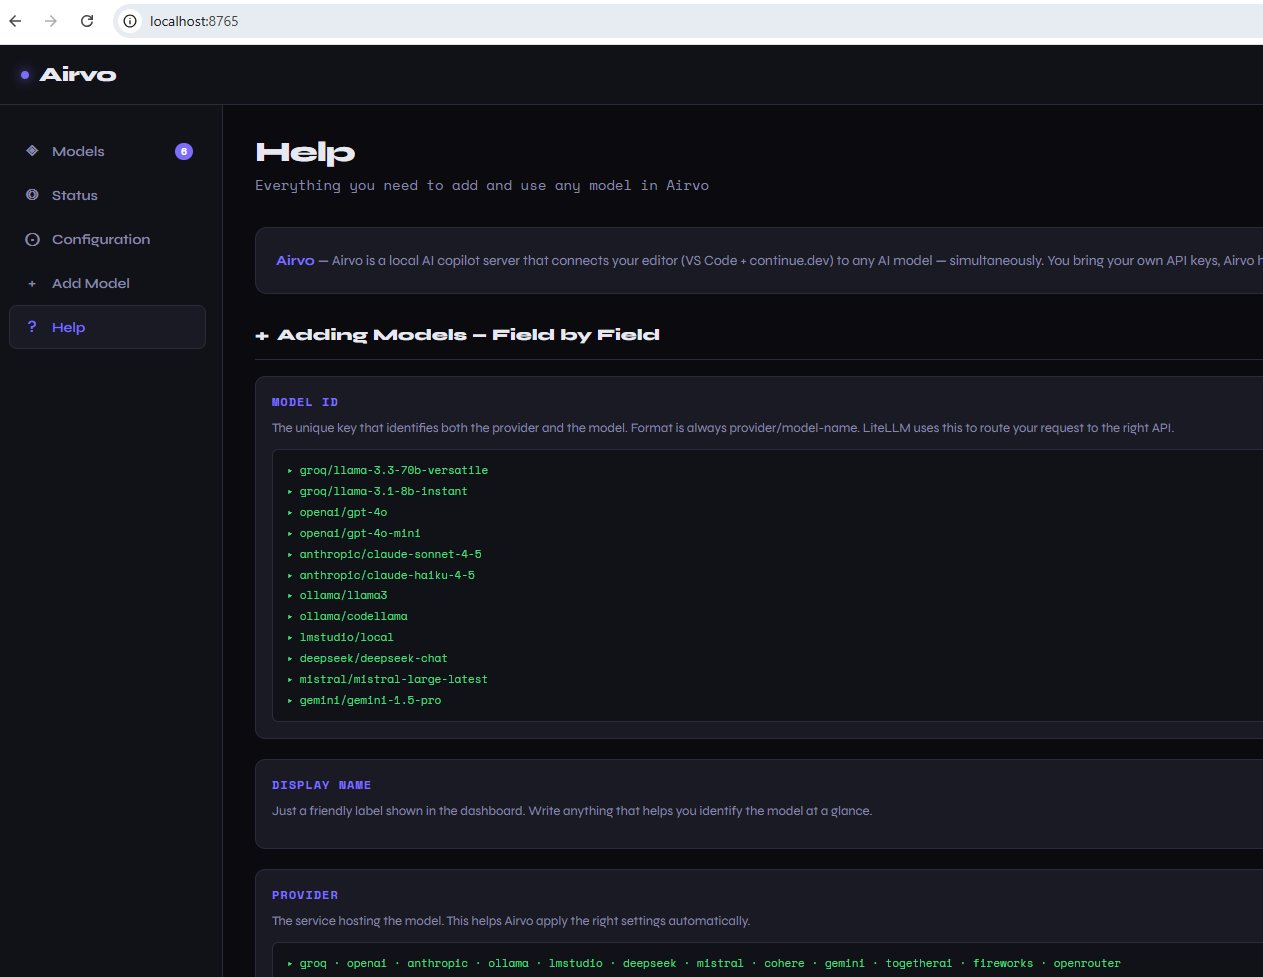
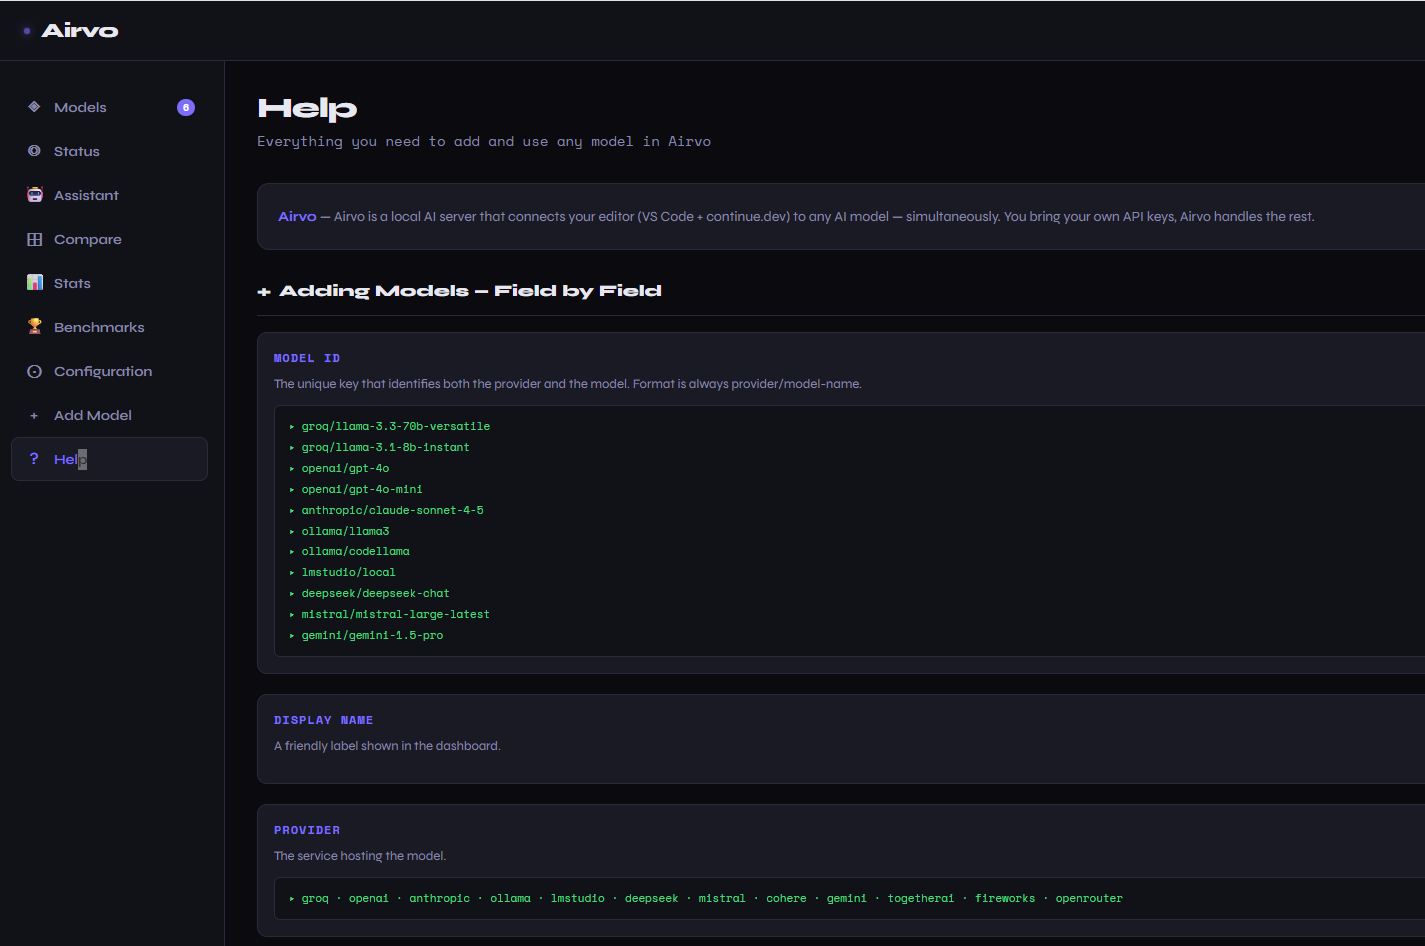
docs(screenshots): update Models/AddModel/Help screenshots, add Compare/Benchmarks/Chat screenshots for v0.7

diff --git a/README.md b/README.md
@@ -215,7 +215,11 @@ The Airvo dashboard runs at `http://localhost:5000` and lets you manage everythi
 
 **Compare tab** — send a prompt to all active models simultaneously, stream responses in real-time, inspect word-level diffs, sort by speed or token count, export as Markdown.
 
+![Airvo Dashboard - Compare](https://raw.githubusercontent.com/airvo-dev/airvo/main/airvo/docs/assets/screenshot-compare.png)
+
 **Benchmarks tab** — run Speed, Coding, Reasoning, Creativity, or custom suites against all models. Leaderboard + radar chart + score history over time. Annotate each run.
+
+![Airvo Dashboard - Benchmarks](https://raw.githubusercontent.com/airvo-dev/airvo/main/airvo/docs/assets/screenshot-benchmarks.png)
 
 **Stats page** — per-model usage, daily sparklines, total token breakdown.
 
@@ -228,6 +232,8 @@ The Airvo dashboard runs at `http://localhost:5000` and lets you manage everythi
 **Help page** — full reference guide, field-by-field documentation, FAQ (7 languages).
 
 **Assistant tab** — built-in 🤖 chat for Airvo-specific questions. Streams responses, saves history locally, renders Markdown, shows token count and response time per message.
+
+![Airvo Dashboard - Chat](https://raw.githubusercontent.com/airvo-dev/airvo/main/airvo/docs/assets/screenshot-chat.png)
 
 ![Airvo Dashboard - Help](https://raw.githubusercontent.com/airvo-dev/airvo/main/airvo/docs/assets/screenshot-help.png)
 
